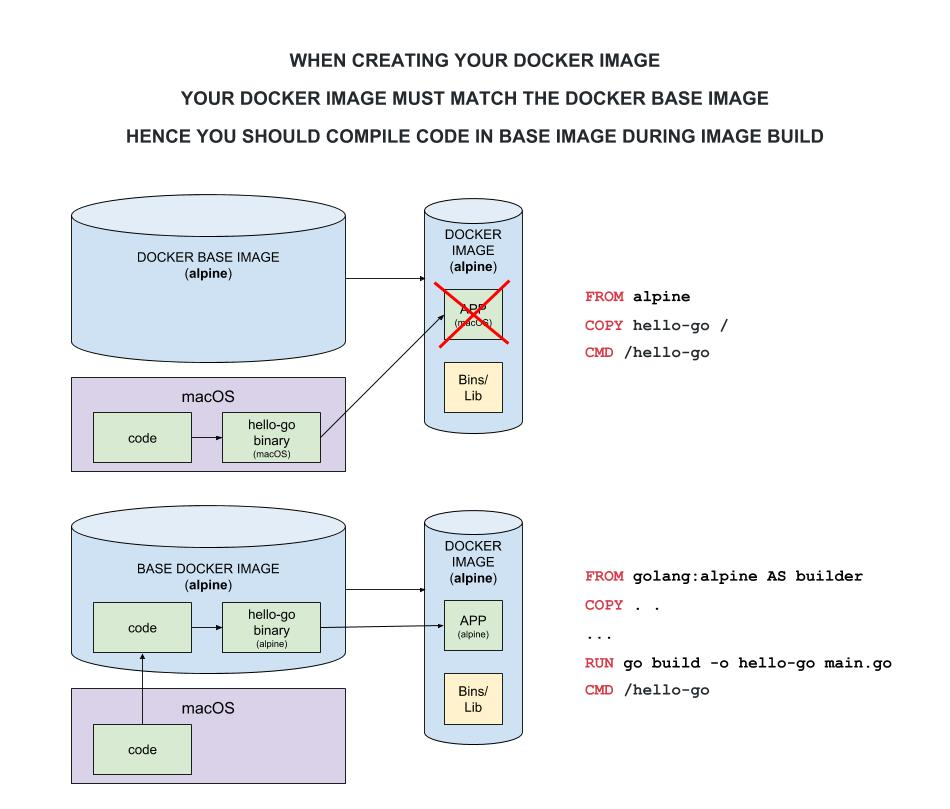
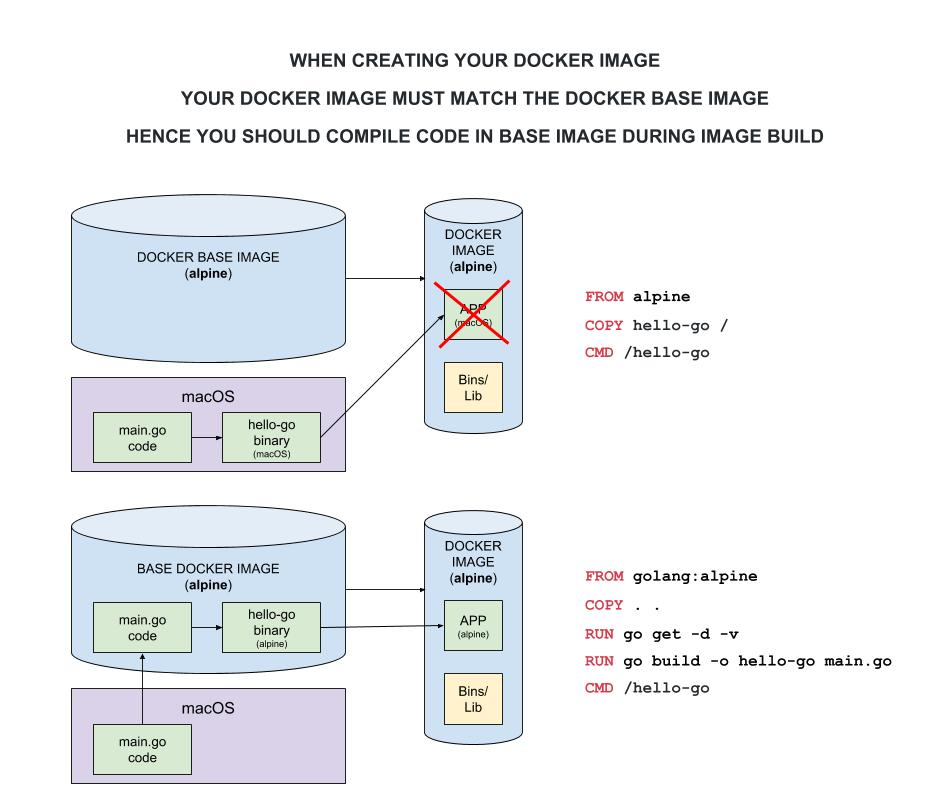
updated docker

diff --git a/software/operations-tools/orchestration/builds-deployment-containers/docker-cheat-sheet/README.md b/software/operations-tools/orchestration/builds-deployment-containers/docker-cheat-sheet/README.md
@@ -157,7 +157,7 @@ Check your build,
 docker images
 ```
 
-### COMPILE YOUR CODE INSIDE CREATE IMAGE
+### COMPILE YOUR CODE INSIDE BASE IMAGE
 
 When creating a docker image, your image must match the base docker image.
 
@@ -167,10 +167,18 @@ Here is an illustration why,
 
 ![IMAGE - compile-code-in-docker-base-image - IMAGE](../../../../../docs/pics/compile-code-in-docker-base-image.jpg)
 
+
+### PUT YOUR APP/SERVICE INTO SMALLER IMAGE (MULTI-STAGE BUILD)
+
+Now that you compiled your code and created an image its just too big.
+You can use multi-stage to place your app/service in a smaller image ~`13MB`,
+
+![IMAGE - multi-stage-build-to-keep-image-small - IMAGE](../../../../../docs/pics/multi-stage-build-to-keep-image-small.jpg)
+
 For an example, refer to my repo
 [here](https://github.com/JeffDeCola/hello-go-deploy-gce/tree/master/example-01/build-push).
 
-## PUSH IMAGE TO DOKERHUB
+### PUSH IMAGE TO DOKERHUB
 
 To push an image to dockerhub,
 
